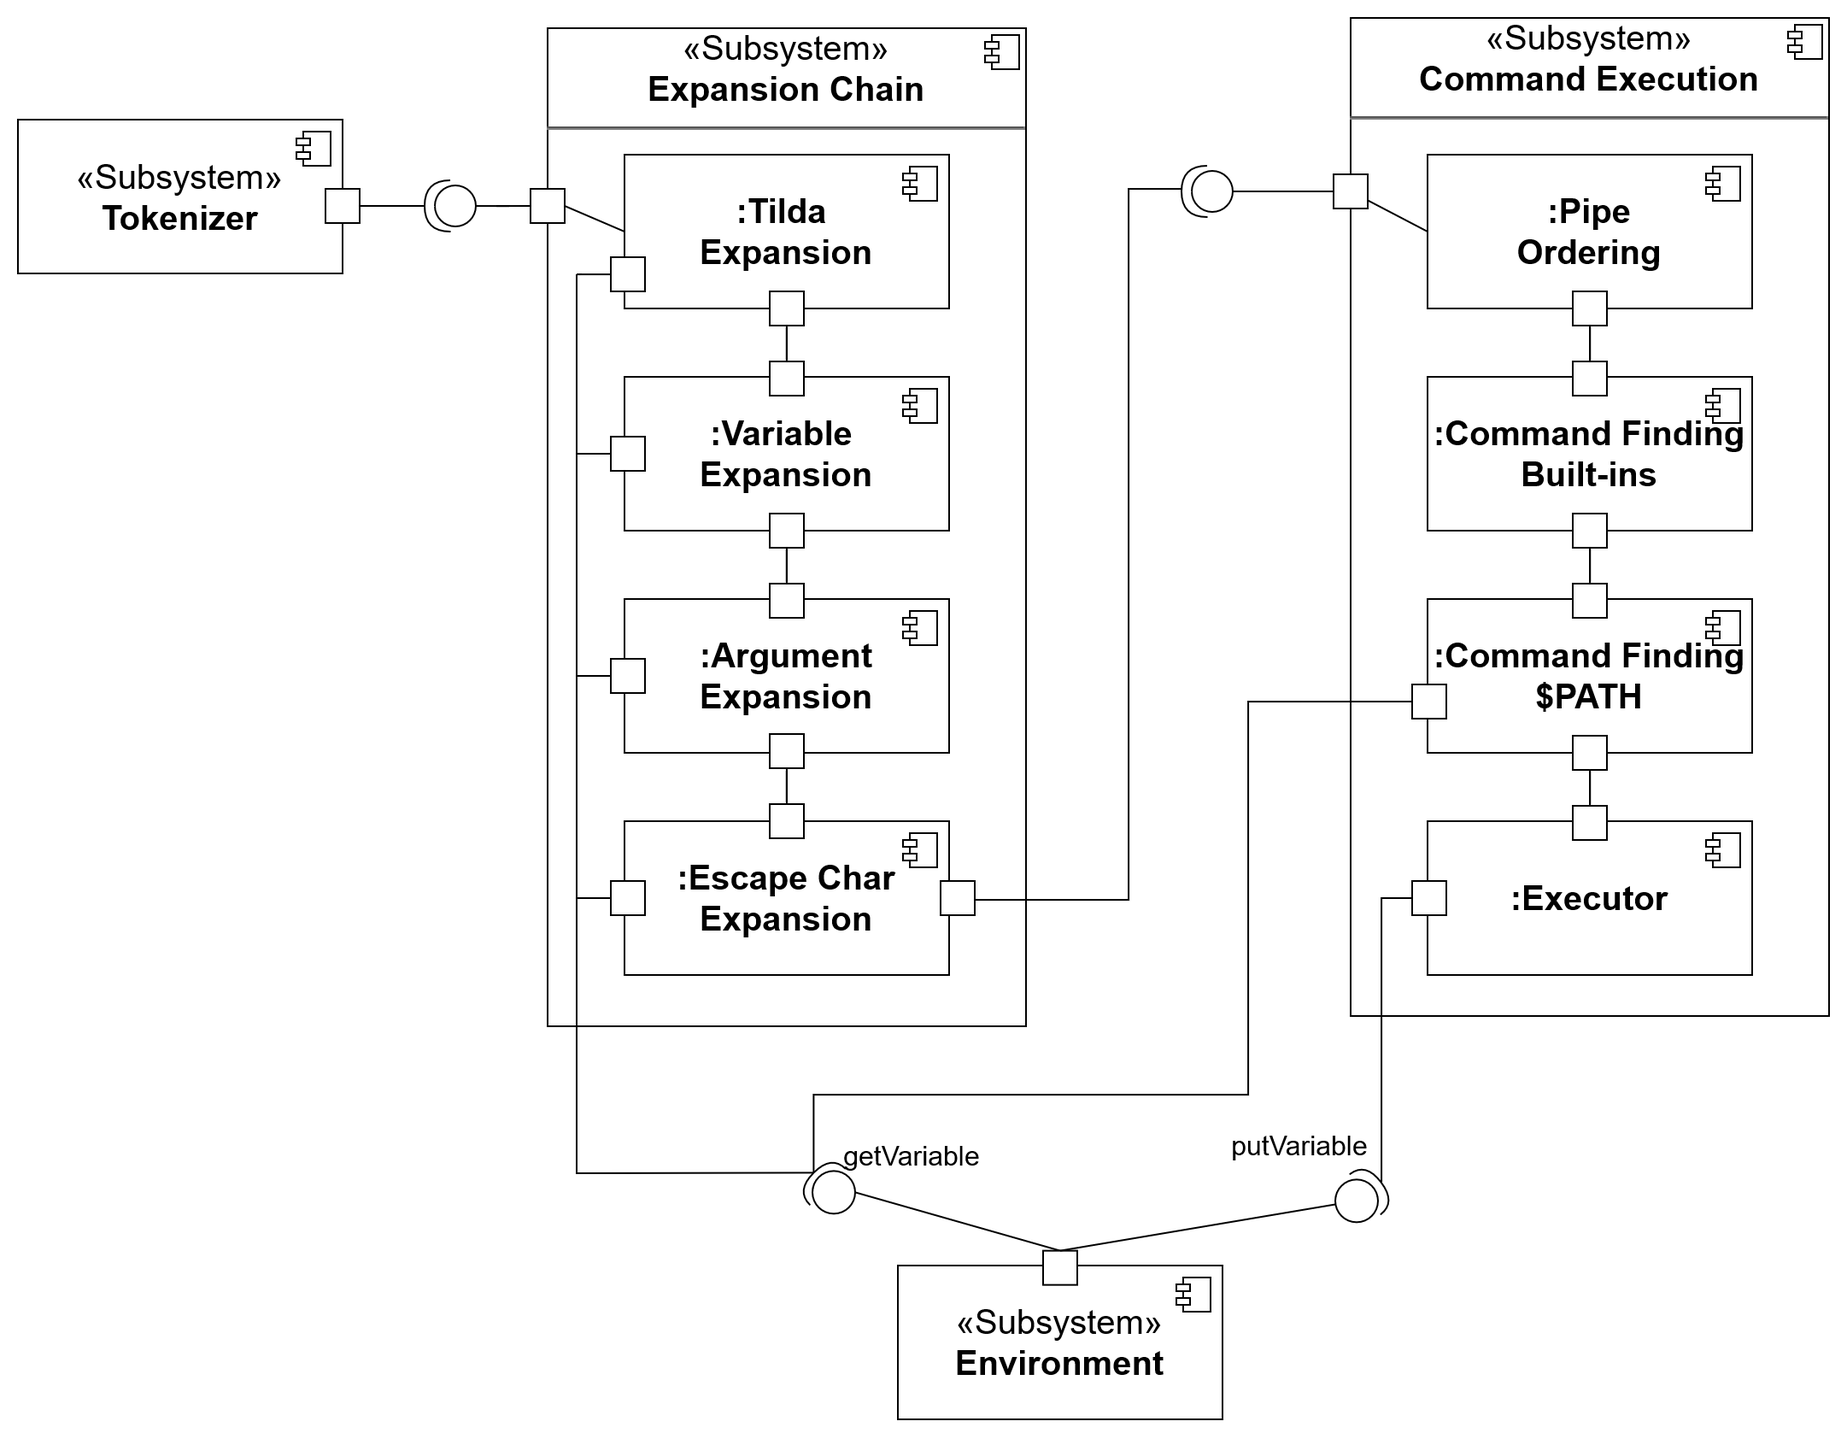
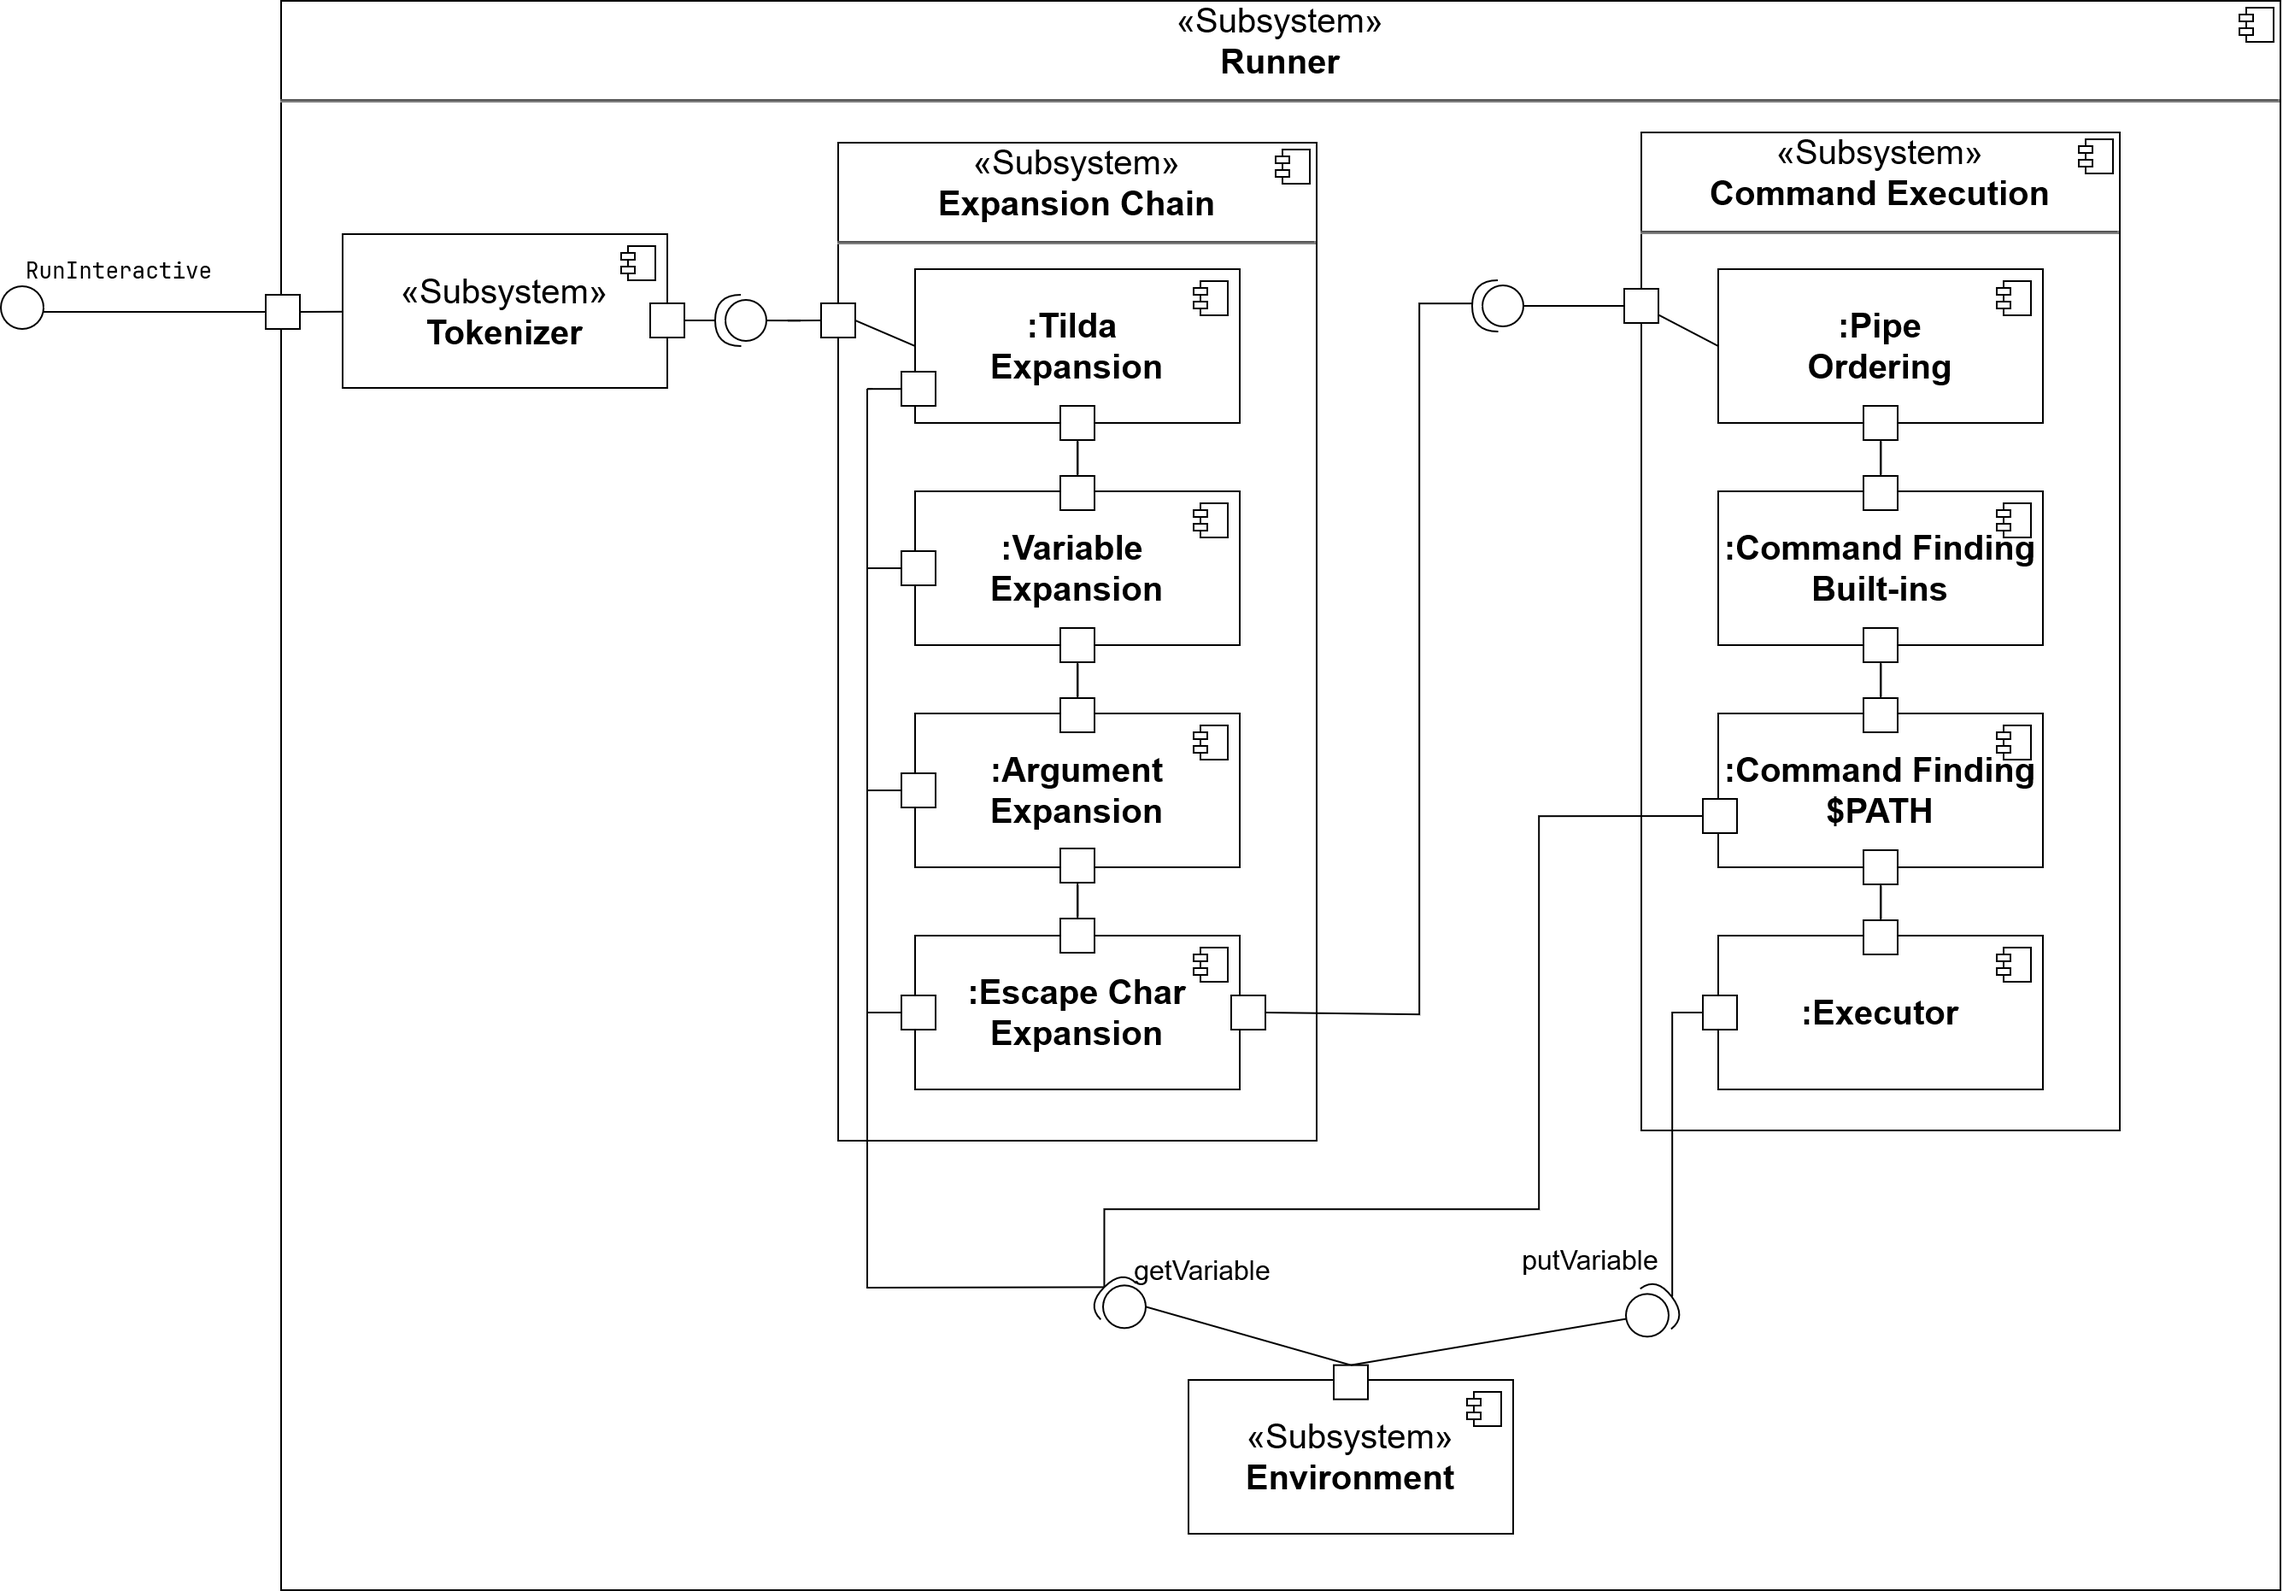
reworked component diagram, added text about the project

diff --git a/README.md b/README.md
@@ -1,15 +1,34 @@
 # Oh My GOSH
 Реализация простого shell на языке Go
 
-## Схема работы проекта
+## Документы по архитектуре проекта
 
 Рассмотрим поток данных, который происходит во время исполнения приложения.
-Запрос пользователя проходит через весь пайплайн, после чего ему возвращается
-код выполнения программы (конкретно, он устанавливается в переменную окружения)
+Запрос пользователя проходит через все стадии, после чего в переменную окружения устанавливается
+результат исполнения последней команды.
 
 ![dataflow diagram](./docs/dataflow.png)
 
-Если же мы рассмотрим то, как выглядят данные компоненты на "увеличенном" масштабе,
-то мы получим следующую схему компонентов
+Рассмотрим то, как выглядят запускаемые компоненты.
+Существует функция `RunInteractive` находящаяся в модуле `Runner`, запускающая программу на исполнение
+в цикле.
+
+Диаграмма компонентов со связями между ними изображена ниже
 
 ![component diagram](./docs/component_diagram.png)
+
+
+В `gosh` есть два ключевых компонента - команды и переменные окружения
+Команды также делятся на два компонента - встроенные и те, что доступны через `PATH`
+
+Сам же `PATH` и другие переменные как раз и лежат в переменных окружения
+
+![main components](./docs/cmdnenv.png)
+
+Диаграмма классов проекта
+
+![class diagram](./docs/class.jpg)
+
+Диаграмма объектов
+
+![object diagram](./docs/object.jpg)
